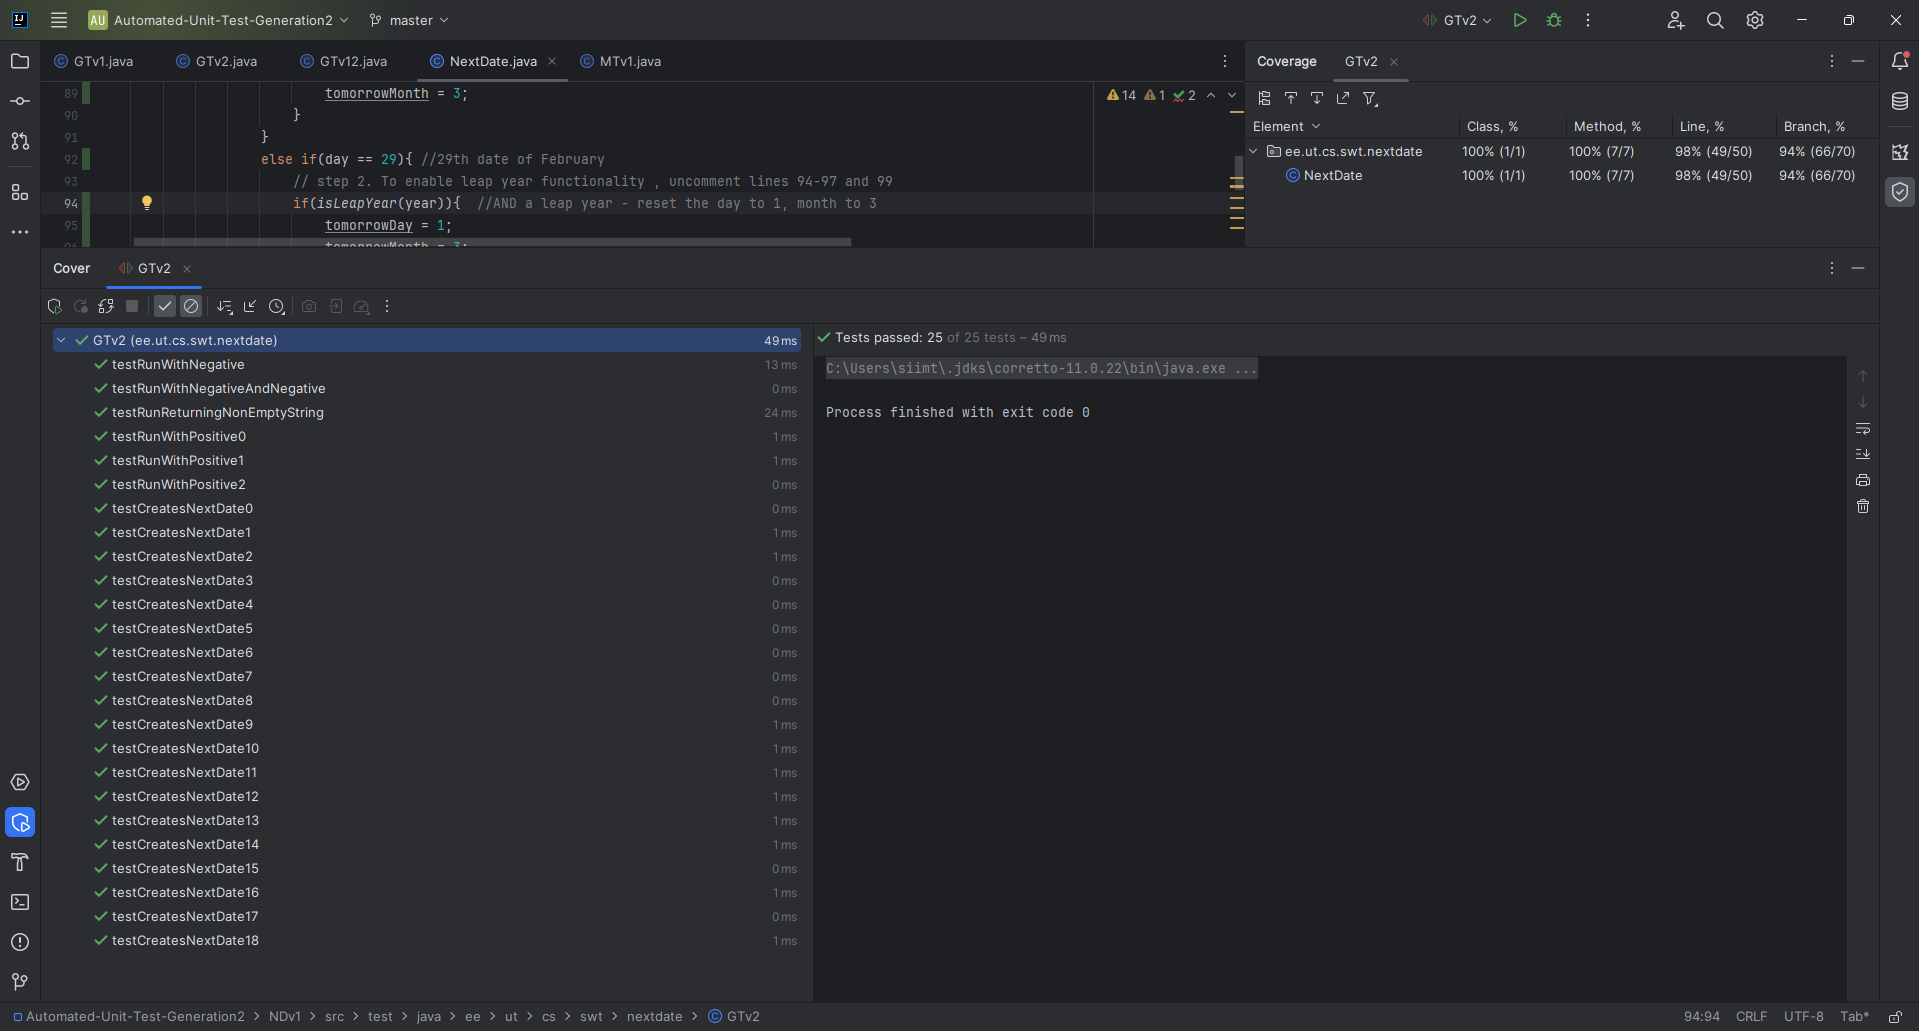
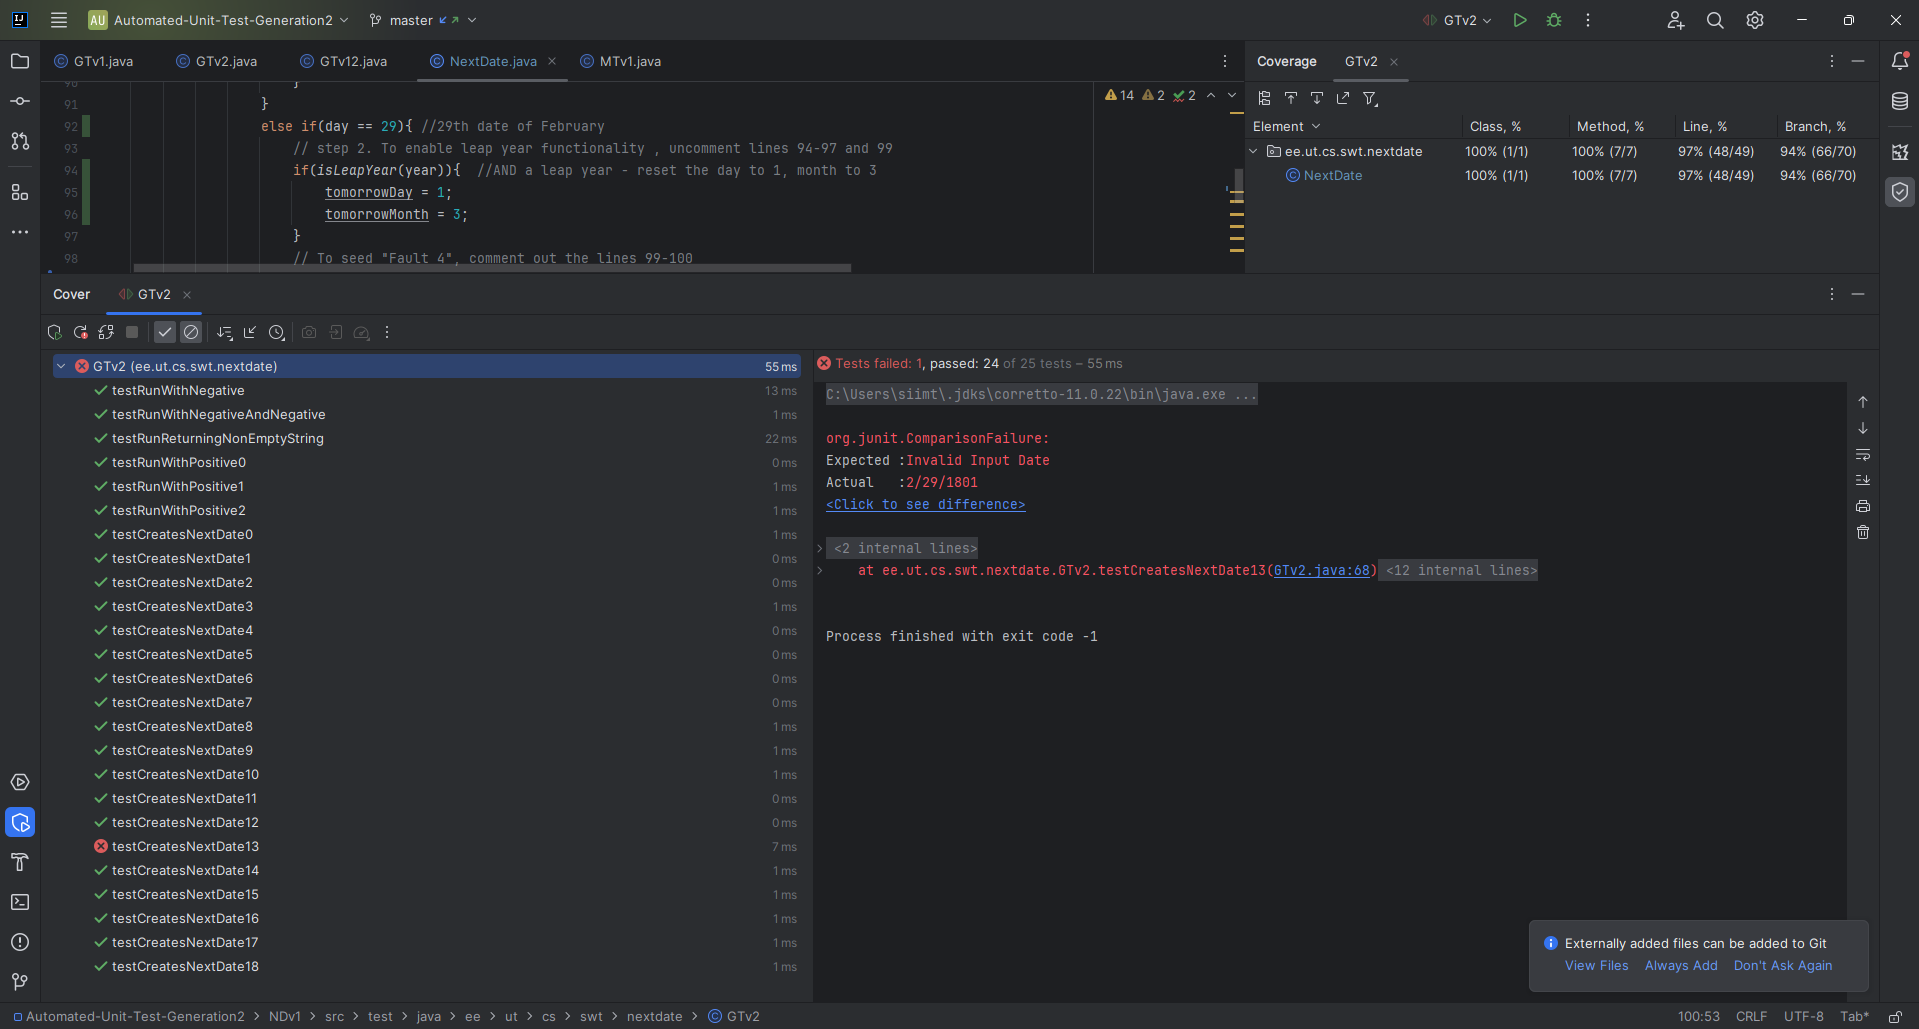
T41 refactored NextDate.java and added screenshots of MTv1 and GTv2

diff --git a/NDv1/src/main/java/ee/ut/cs/swt/nextdate/NextDate.java b/NDv1/src/main/java/ee/ut/cs/swt/nextdate/NextDate.java
@@ -96,8 +96,8 @@ public class NextDate {
 						tomorrowMonth = 3;
 					}
 					// To seed "Fault 4", comment out the lines 99-100
-					else
-						return "Invalid Input Date";
+//					else
+//						return "Invalid Input Date";
 				}
 				//
 				else if(day > 29) //invalid input as February will never have more than 29 days
